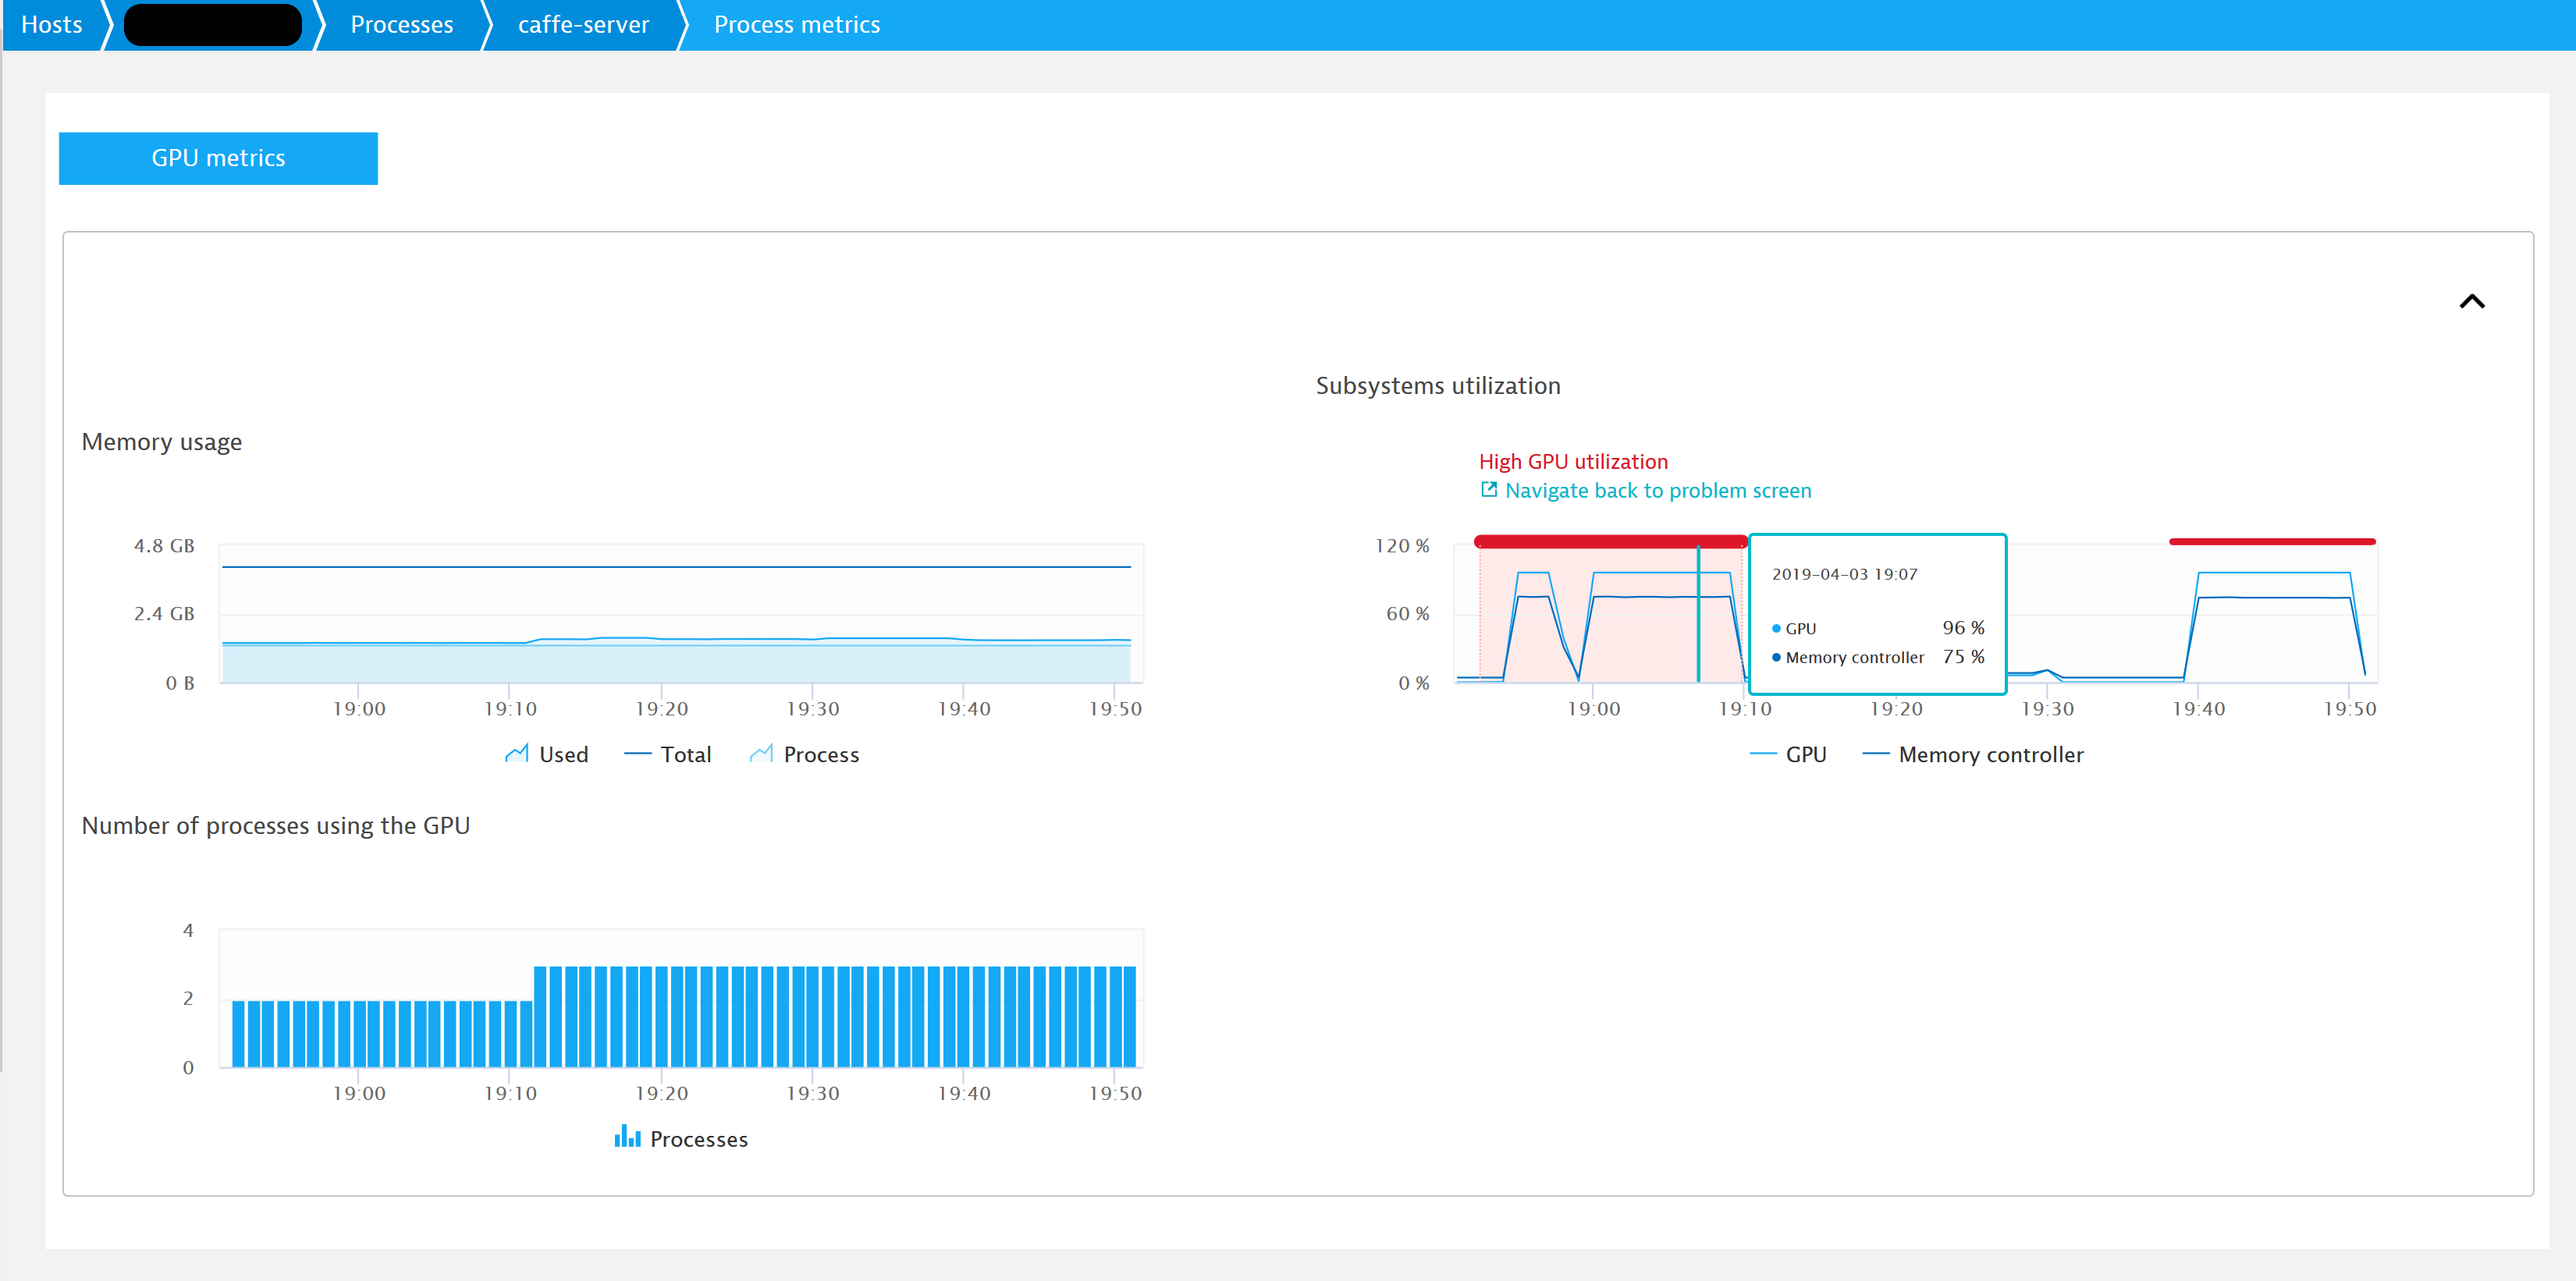
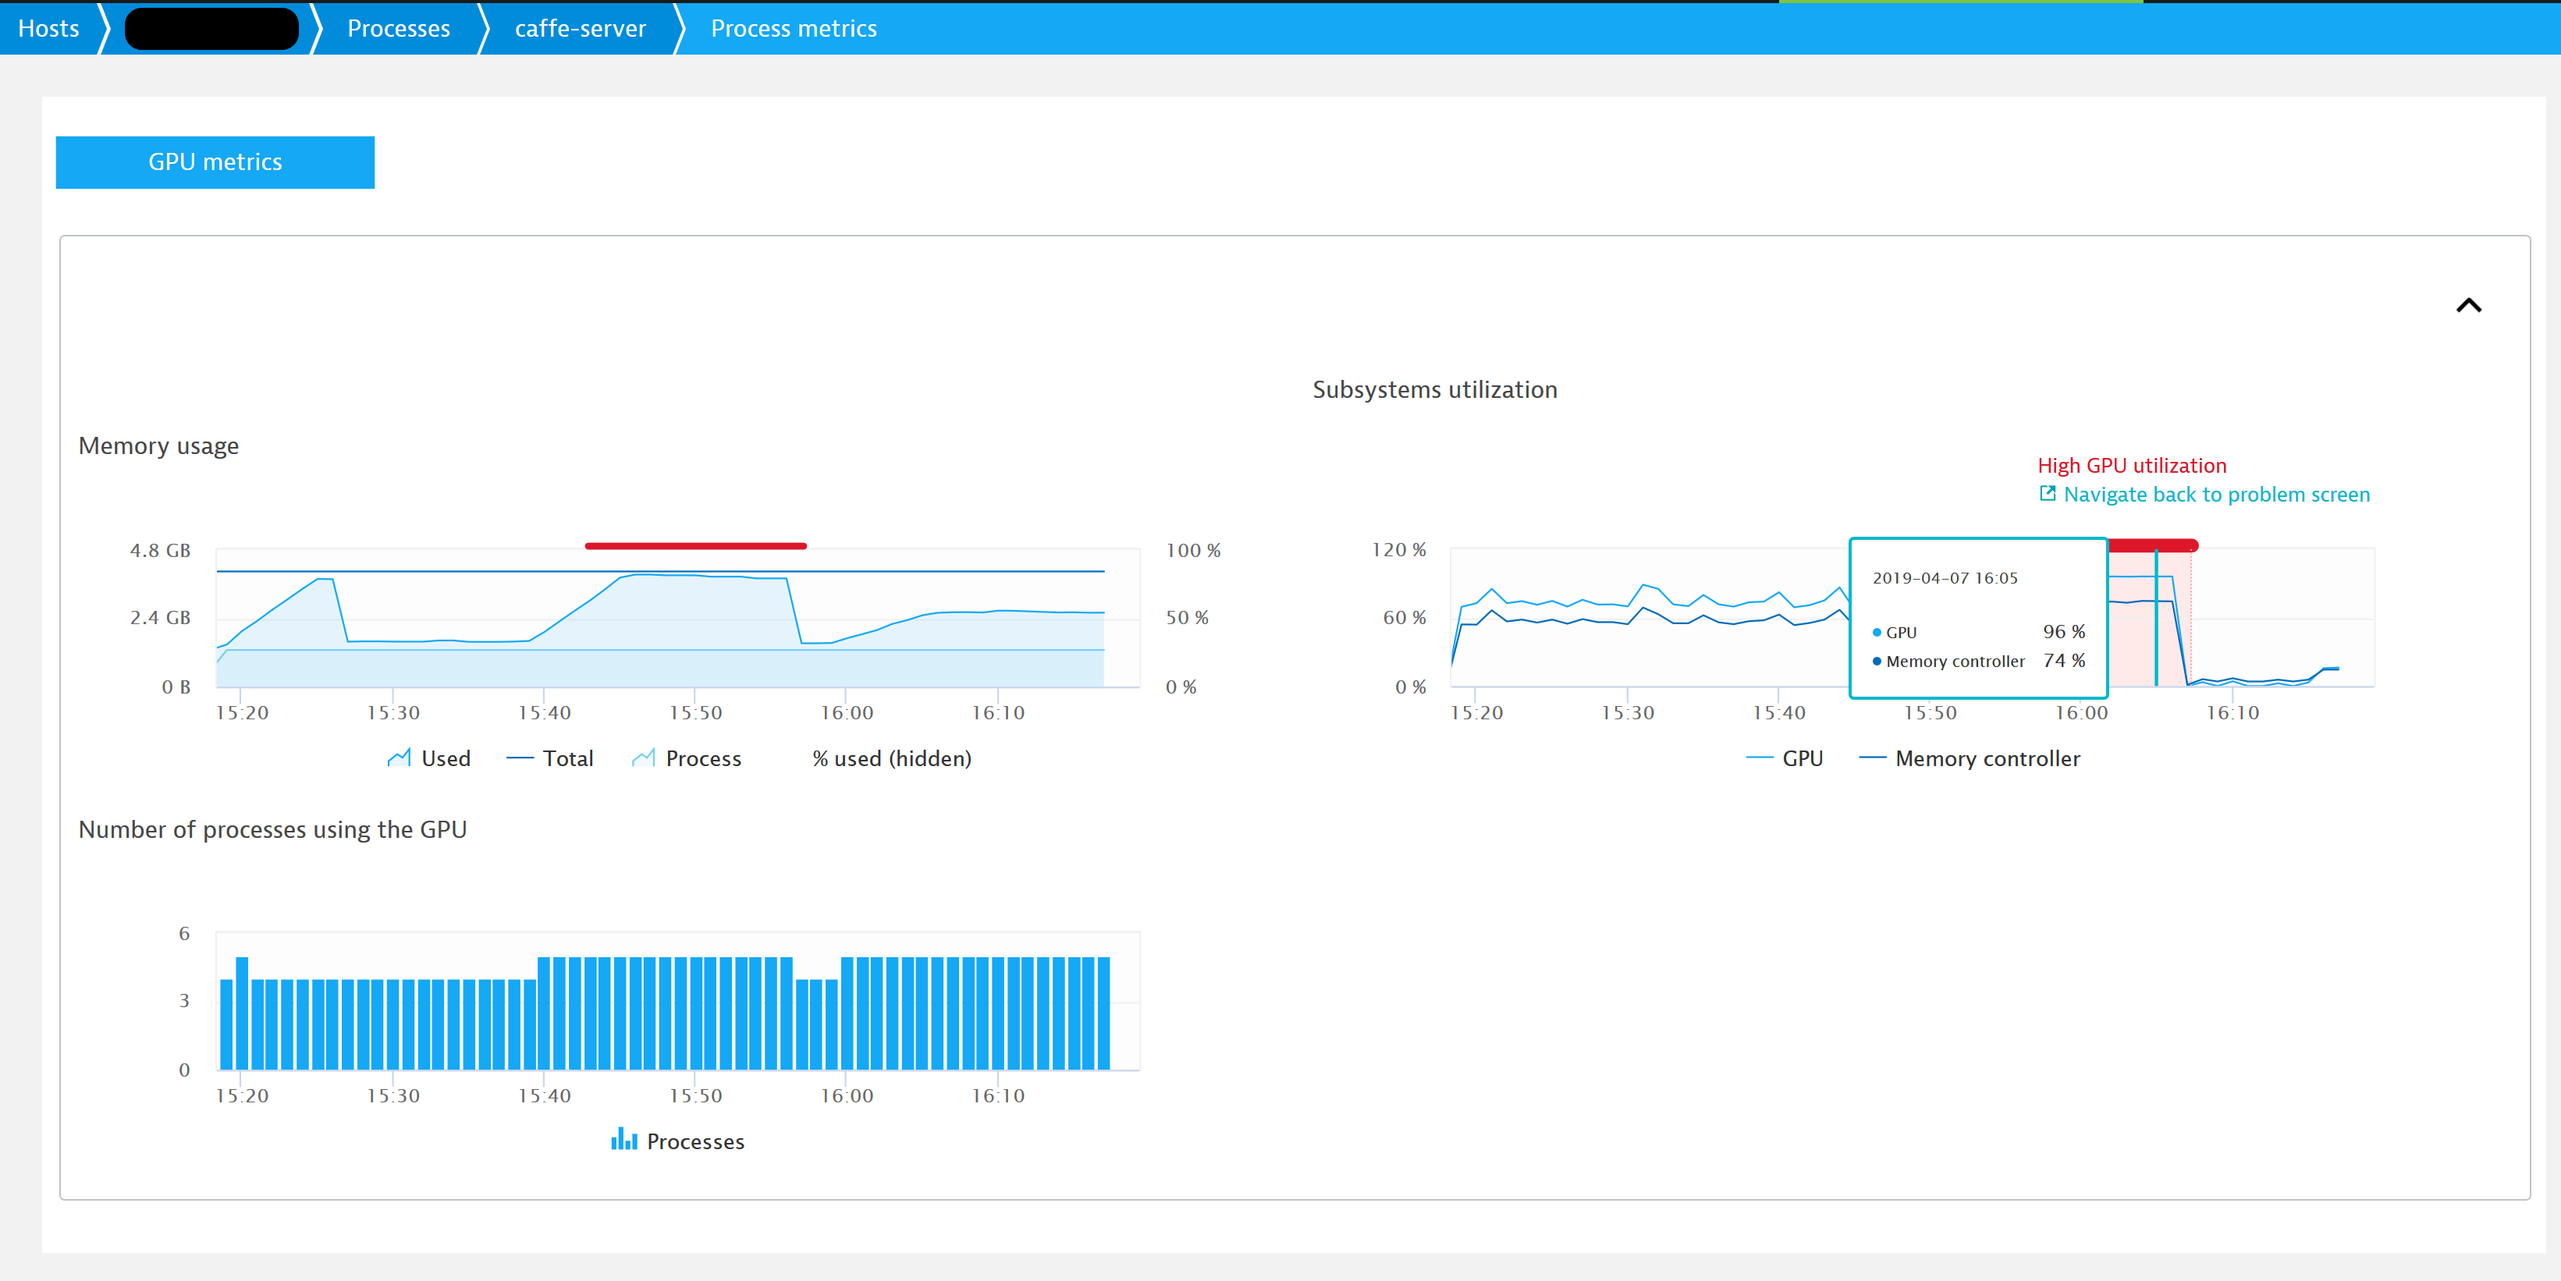
Added example screen capture for high gpu memory alert

diff --git a/README.md b/README.md
@@ -59,7 +59,6 @@ If there are multiple GPUs present, the metrics will be displayed in a joint fas
 * `gpu_utilization` and `gpu_memory_controller_utilization` will be an average from per-device usage metrics,
 * `gpu_processes_count` will show unique count of processes using any of the GPUs, i.e. if single process is using two GPUs it will be counted as 1.
 
-\
 ![Metrics display](docs/gpu_metrics.png)
 \
 _Fig 1. Metrics reported by the plugin_
@@ -77,21 +76,28 @@ Note that [this mode is not supported by GeForce series cards prior to Volta arc
 # Alerting
 Three alerts are predefined in the plugin, all three are generated by the Dynatrace Server when metrics exceed certain threshold values:
 * _High GPU utilization_ alert - raised when `gpu_utilization` exceeds predefined threshold (default: 90%) in given time period, example is shown in *Figure 2*,
-* _High GPU memory controller utilization_ alert -  raised when `gpu_memory_controller_utilization` exceeds predefined threshold (default: 90%) in given time period,
-* _High GPU memory utilization_ alert - raised when `gpu_mem_percentage_used` exceeds predefined threshold (default: 90%) relative to `gpu_mem_total` in given time period.
+* _High GPU memory controller utilization_ alert - raised when `gpu_memory_controller_utilization` exceeds predefined threshold (default: 90%) in given time period,
+* _High GPU memory utilization_ alert - raised when `gpu_mem_percentage_used` exceeds predefined threshold (default: 90%) relative to `gpu_mem_total` in given time period, example is shown in *Figure 3*.
 
 Alerts thresholds are customizable by going to `WebUI` > `Settings` > `Anomaly Detection` > `Plugin events`.
 
-\
 ![High GPU utilization alert](docs/high_gpu_utilization_alert.png)
 \
 _Fig 2. High GPU utilization alert as seen on metrics screen_
 
-Note that _High GPU memory utilization_ alert is based on two separate metrics (`gpu_mem_used` and `gpu_mem_total`). Due to current custom plugins limitations, it is not possible to define such server-side alert without introducing an artificial metric combining the other two.
-The alert could be reported by the plugin directly via [`results_builder.report_performance_event()`](https://dynatrace.github.io/plugin-sdk/_apidoc/ruxit.api.html#ruxit.api.results_builder.ResultsBuilder.report_performance_event),
+![High GPU memory utilization alert](docs/high_gpu_memory_utilization_alert.png)
+\
+_Fig 3. High GPU memory utilization alert as seen on metrics screen_
+
+Note that _High GPU memory utilization_ alert is based on two separate metrics (`gpu_mem_used` and `gpu_mem_total`).
+Due to current custom plugins limitations, it is not possible to define such server-side alert without introducing an artificial metric combining the other two.
+The alert could be reported by the plugin directly via [`results_builder.report_performance_event()`](https://dynatrace.github.io/plugin-sdk/_apidoc/ruxit.api.html#ruxit.api.results_builder.ResultsBuilder.report_performance_event), 
 but then it wouldn't be connected to a particular metric (from server's perspective) and wouldn't be marked on the respective chart, it would only appear on the host screen.
 Thus, an artificial metric, that is hidden on the _Memory usage_ chart, representing percentage usage of the GPU memory had to be introduced.
 
+![High GPU memory utilization alert](docs/high_gpu_memory_utilization_alert2.png)
+\
+_Fig 4. Problem view for High GPU memory utilization alert_
 
 # Acknowledgements
 * [Bartosz Pollok](https://github.com/bartekmp) for code review and guidance through the Python world
